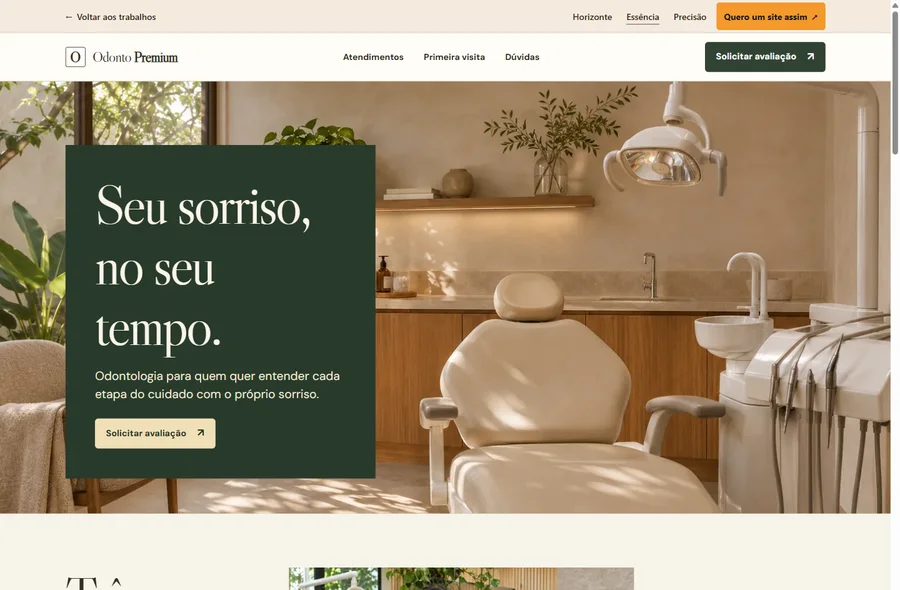
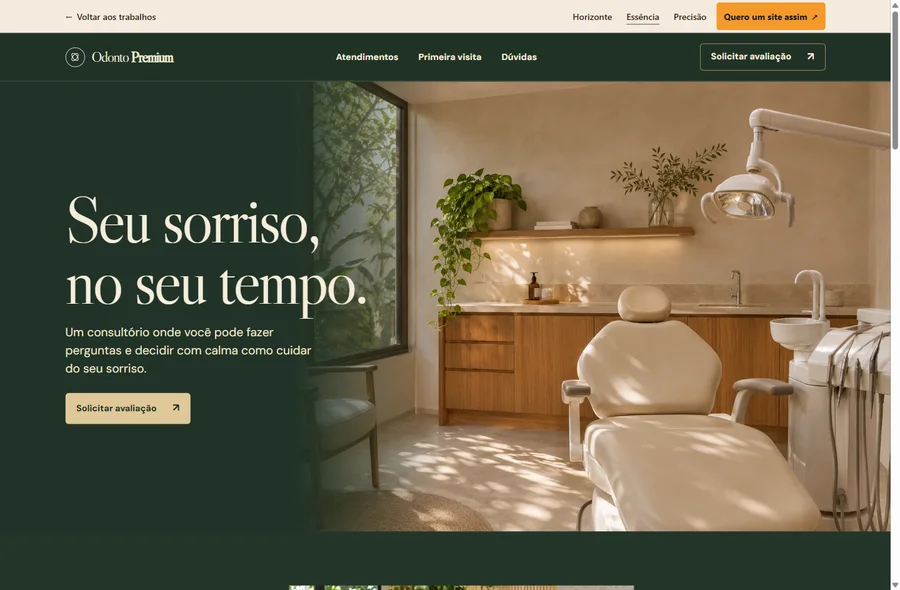
Redesenha a direção visual das três versões da Odonto Premium

diff --git a/app/exemplos/sites/dentista/dentista.css b/app/exemplos/sites/dentista/dentista.css
@@ -333,3 +333,170 @@ figure { margin:0;overflow:hidden }
  .precision-row figure img { object-position:center }
  .precision-row p { font-size:.9rem;line-height:1.35 }
 }
+
+/* The clinical site identities begin below the shared portfolio navigation. */
+.clinic-mark { gap:.68rem;letter-spacing:-.055em }
+.clinic-name { white-space:nowrap }
+.clinic-monogram {
+ position:relative;width:1.95rem;height:1.95rem;margin:0;
+ border:1px solid currentColor;border-radius:50%;flex:none
+}
+.clinic-monogram::before,.clinic-monogram::after {
+ content:"";position:absolute;inset:26% 37%;border:1px solid currentColor;
+ border-radius:50%;transform:rotate(40deg)
+}
+.clinic-monogram::after { transform:rotate(-40deg) }
+.clinic-header nav a { font-size:.9rem }
+.clinic-header .clinic-button { min-height:43px }
+.clinic-button { gap:1.6rem;min-height:50px }
+.clinic-footer p { font-size:.87rem }
+.faq summary { display:flex;justify-content:space-between;align-items:center;gap:.6rem;list-style:none }
+.faq summary::-webkit-details-marker { display:none }
+.faq summary::after { content:"+";font-size:1.2rem;line-height:1 }
+.faq details[open] summary::after { content:"−" }
+
+.horizonte {
+ --ink:#173d32;--muted:#38564a;--paper:#fbfaf4;--line:#b4c1ad;--action:#194e3b;
+ --panel:#fcfbf4;
+}
+.horizonte .clinic-header { background:#f4f6e9 }
+.horizonte .hero {
+ display:grid;grid-template-columns:minmax(0,.95fr) minmax(0,1.05fr);
+ width:100%;padding:0;gap:0;background:#eaf0db;align-items:stretch
+}
+.horizonte .hero-copy {
+ padding:clamp(2.5rem,7.1vw,7rem) clamp(1.25rem,3.35vw,3.75rem) clamp(2.5rem,6vw,6rem) max(2.2rem,calc((100vw - 75rem)/2));
+ align-self:center
+}
+.horizonte .hero h1 {
+ max-width:10ch;font-size:clamp(3.15rem,6.25vw,6rem);line-height:.985;
+ letter-spacing:-.065em;font-weight:780;text-wrap:initial
+}
+.horizonte .hero-copy > p { max-width:32ch;font-size:clamp(1rem,1.52vw,1.22rem);line-height:1.48 }
+.horizonte .hero-photo {
+ height:100%;min-height:33rem;aspect-ratio:auto;border-radius:0;
+}
+.horizonte .hero-photo img { width:100%;height:100%;object-fit:cover;object-position:65% 48% }
+.horizonte .hero-choices {
+ margin-top:1.4rem;gap:.4rem .8rem;padding:0;
+}
+.horizonte .hero-choices a {
+ min-height:44px;padding:.2rem 0;border:0;border-bottom:1px solid #779381;border-radius:0;
+}
+.horizonte .hero-choices a:hover { background:transparent;border-bottom-color:currentColor }
+.horizonte .hero-copy > .clinic-button { margin-top:1.2rem }
+.horizonte .horizon-treatments { padding-block:clamp(2.3rem,6vw,5.6rem) }
+.horizon-treatments h2 { letter-spacing:-.055em }
+.horizonte .horizon-index-photo { border-radius:0;aspect-ratio:1.53;min-height:0 }
+.horizonte .service-list h3 { font-size:clamp(1.09rem,1.6vw,1.45rem) }
+.horizonte .visit-horizon { background:#eaf0db }
+.horizonte .scene-caption { padding-block:.75rem }
+.horizonte .horizon-scene { background:#194e3b }
+.horizonte .scene-caption p { color:#f0f4e9 }
+.horizonte .request-wrap { background:#204738 }
+
+.essencia {
+ --ink:#f5eddb;--muted:#d2c9b1;--paper:#243529;--line:#637062;--action:#dfc798;--panel:#2a3d2e;
+ --on-action:#1c2d21;
+ color-scheme:dark;
+}
+.essencia .clinic-header { background:#213226;border-color:#697262 }
+.essencia .clinic-monogram { border-radius:50% }
+.essencia .clinic-header .clinic-button { background:transparent;color:var(--ink);border-color:#ad9f79 }
+.essencia .hero-wide { min-height:clamp(33rem,50vw,49rem);background:#213327;align-items:center }
+.essencia .hero-wide .hero-photo {
+ left:33%;background:#776249;
+ mask-image:linear-gradient(90deg,transparent 0%,#000 25%,#000 100%);
+}
+.essencia .hero-wide .hero-photo img { object-position:64% 53% }
+.essencia .hero-overlay { margin-block:clamp(3rem,6vw,7rem);position:relative }
+.essencia .hero-copy { width:min(42%,32rem);padding:0;background:none }
+.essencia .hero-copy h1 { max-width:9ch;color:#f6edda;font-size:clamp(3.85rem,7.2vw,7rem);line-height:.95;text-wrap:initial }
+.essencia .hero-copy p { max-width:32ch;color:#f1e5cb }
+.essence-treatments { padding-block:clamp(2.6rem,6vw,5.8rem);border-bottom:1px solid var(--line) }
+.essence-section-title h2 { max-width:8ch }
+.essence-story a,.essence-story a:hover { color:#f0d7a9 }
+.essence-spread { gap:1.6rem clamp(.9rem,2.4vw,2rem) }
+.essence-story figure { aspect-ratio:1.5 }
+.essence-story:nth-child(3) { margin-top:clamp(.4rem,2.4vw,2.5rem) }
+.essence-scene { background:#ded4be;color:#27382c }
+.essence-scene p { color:#384538 }
+.essencia .visit li::before { color:#ead2a4 }
+.essencia .faq { border-top:1px solid var(--line) }
+.essencia .request-wrap { background:#1d2e22 }
+.essencia .request { background:#f1eada;color:#26372b;border-color:#ebdcc1;color-scheme:light }
+.essencia .request p { color:#465044 }
+.essencia .request select { color:#283b2d }
+.essencia .sample-button,.essencia .result-actions button { background:#e6ddc8;color:#26372b;border-color:#9b987e }
+.essencia .request-result { background:#eee4ce;border-color:#a29a86 }
+.essencia .request-summary div { border-color:#aba38d }
+
+.precisao {
+ --ink:#13264e;--muted:#374b6e;--paper:#f6f8fd;--line:#aebcd9;--action:#2048bb;--panel:#fff;
+}
+.precisao .clinic-header { background:#fff }
+.precisao .clinic-monogram { border-radius:.24rem }
+.precisao .hero-fast { padding:0;background:#1944b1;color:#fff }
+.precisao .hero-fast-grid { display:grid;grid-template-columns:minmax(0,1fr);gap:0;width:100%;margin:0 }
+.precisao .hero-copy {
+ text-align:center;width:min(100% - 2rem,76rem);margin-inline:auto;
+ padding-block:clamp(1.7rem,4.9vw,4.6rem) clamp(1.5rem,3vw,2.9rem);
+}
+.precisao .hero-fast h1 { margin-inline:auto;max-width:none;font-size:clamp(2.5rem,6.45vw,6rem);letter-spacing:-.064em }
+.precisao .hero-copy p { margin:.9rem auto 0;color:#f1f5ff;font-size:clamp(1rem,1.6vw,1.18rem);max-width:42ch }
+.hero-fast-media { height:clamp(12rem,27vw,26rem);overflow:hidden;background:#526e9d }
+.hero-fast-media img { width:100%;height:100%;object-fit:cover;object-position:50% 57% }
+.precisao .hero-fast .request {
+ width:min(100% - 2rem,70rem);position:relative;z-index:1;
+ margin:-3.3rem auto 0;padding:clamp(1rem,2.2vw,2rem);
+ border:0;border-radius:.32rem;box-shadow:0 1rem 1.6rem #13264e30;
+}
+.precisao .hero-fast .request h2 { font-size:clamp(1.6rem,2.45vw,2.4rem) }
+.precisao .hero-fast .request-form { display:grid;grid-template-columns:minmax(0,1fr) auto;align-items:end;gap:.65rem 1rem }
+.precisao .hero-fast .form-fields { grid-template-columns:repeat(2,minmax(0,1fr));gap:.75rem }
+.precisao .hero-fast .request-form > button { margin:0 }
+.precisao .hero-fast .request-form > p { grid-column:1/-1;margin-top:0 }
+.precisao .hero-fast { padding-bottom:clamp(1.5rem,3.3vw,3.3rem) }
+.precision-treatments h2 { margin-bottom:1.25rem;letter-spacing:-.055em }
+.precisao .precision-row figure { height:clamp(9rem,15vw,14rem) }
+.precisao .precision-row h3 { letter-spacing:-.055em }
+.precisao .visit-precision { background:#162e72 }
+.precisao .visit-precision li { border-color:#7690d0 }
+.precisao .precision-scene figure { border-radius:.35rem }
+
+.comparison { background:#f2e9dd }
+.version-card { border-radius:.2rem;background:#fffbf4;color:#25221e }
+.version-card p { color:#5f4d40 }
+.version-card a > div { padding:clamp(.95rem,1.65vw,1.4rem) }
+.version-card img { aspect-ratio:1.53 }
+.version-card.essencia h2 { font-family:Georgia,serif;font-weight:400 }
+.version-card.horizonte h2 { color:#194e3b }
+.version-card.precisao h2 { color:#173f9a }
+
+@media(max-width:760px) {
+ .clinic-mark { gap:.48rem }
+ .clinic-monogram { width:1.75rem;height:1.75rem }
+ .horizonte .hero { grid-template-columns:1fr }
+ .horizonte .hero-copy { padding:2.1rem 1rem 1.6rem }
+ .horizonte .hero h1 { font-size:clamp(2.7rem,10.5vw,4.8rem) }
+ .horizonte .hero-photo { height:clamp(14rem,65vw,25rem);min-height:0 }
+ .horizonte .hero-choices { gap:0 .9rem;margin-top:.85rem }
+ .horizonte .horizon-index-photo { height:auto }
+ .essencia .hero-wide { min-height:0;display:flex;flex-direction:column;background:#213327 }
+ .essencia .hero-overlay { margin:0 auto;width:calc(100% - 2rem) }
+ .essencia .hero-copy { width:100%;padding:1.85rem 0 1.45rem }
+ .essencia .hero-copy h1 { max-width:12ch;font-size:clamp(3rem,11.8vw,5rem) }
+ .essencia .hero-wide .hero-photo { width:100%;height:clamp(12rem,55vw,25rem);mask-image:none }
+ .essencia .hero-wide .hero-photo img { object-position:67% 58% }
+ .essence-story:nth-child(3) { margin-top:0 }
+ .precisao .hero-fast { padding-bottom:0 }
+ .precisao .hero-fast .request {
+  order:1;margin:0 auto 1.25rem;padding:1rem;border-radius:.28rem;box-shadow:none
+ }
+ .precisao .hero-fast-media { order:2;height:clamp(10rem,45vw,19rem) }
+ .precisao .hero-fast h1 { max-width:11ch;font-size:clamp(2.67rem,10.3vw,4.5rem) }
+ .precisao .hero-copy { padding-block:1.7rem 1.4rem }
+ .precisao .hero-fast .request-form,.precisao .hero-fast .form-fields { grid-template-columns:1fr }
+ .precisao .hero-fast .request-form > button { justify-self:start }
+ .precisao .precision-row figure { min-height:8rem;height:100% }
+}

diff --git a/app/exemplos/sites/dentista/precisao.html b/app/exemplos/sites/dentista/precisao.html
@@ -28,7 +28,7 @@
  </div>
  <header class="clinic-header">
   <div class="section-shell clinic-header-inner">
-   <a class="clinic-mark" href="#conteudo" aria-label="Odonto Premium, início"><span class="clinic-monogram" aria-hidden="true">O</span>Odonto <strong>Premium</strong></a>
+   <a class="clinic-mark" href="#conteudo" aria-label="Odonto Premium, início"><span class="clinic-monogram" aria-hidden="true"></span><span class="clinic-name">Odonto <strong>Premium</strong></span></a>
    <button class="clinic-menu" type="button" aria-expanded="false" aria-controls="clinic-navigation" hidden>Menu</button>
    <nav id="clinic-navigation" aria-label="Navegação da clínica">
     <a href="#atendimentos">Atendimentos</a>
@@ -40,12 +40,15 @@
   </div>
  </header>
  <main id="conteudo">
-   <section class="hero hero-fast"><div class="section-shell hero-fast-grid"><div class="hero-copy">
-       <h1>Sua próxima consulta começa aqui.</h1>
-       <p>Primeira avaliação, consulta de rotina ou alinhadores. Escolha o motivo da visita para preparar o pedido.</p>
+   <section class="hero hero-fast"><div class="hero-fast-grid"><div class="hero-copy">
+       <h1>Escolha seu atendimento.</h1>
+       <p>Primeira avaliação, consulta de rotina ou alinhadores.</p>
 
 
-      </div><section id="avaliacao" class="request" aria-labelledby="request-title">
+      </div>
+     <div class="hero-fast-media"><img src="consultorio-720.webp" srcset="consultorio-720.webp 720w, consultorio-1440.webp 1440w"
+       sizes="100vw" alt="Cadeira de atendimento e equipamentos na clínica Odonto Premium" decoding="async" fetchpriority="high"></div>
+     <section id="avaliacao" class="request" aria-labelledby="request-title">
     <div class="request-heading"><h2 id="request-title">Solicitar avaliação</h2>
      <button class="sample-button" type="button" data-fill-example hidden>Usar exemplo</button></div>
     <p>Escolha o atendimento e o melhor período para retorno.</p>
@@ -90,7 +93,7 @@
     </div>
    </section></div></section>
      <section class="treatments precision-treatments" id="atendimentos" aria-labelledby="treatments-title">
-     <div class="section-shell"><h2 id="treatments-title">Qual é o motivo da visita?</h2><ul class="precision-rows"><li class="precision-row"><h3>Primeira avaliação</h3><div><p>Conte o que motivou a visita e converse sobre os próximos passos.</p><a href="#avaliacao" data-service-choice="primeira" aria-label="Selecionar primeira avaliação">Selecionar <span aria-hidden="true">↗</span></a></div><figure class=""><img src="avaliacao-720.webp" srcset="avaliacao-720.webp 720w, avaliacao-1440.webp 1440w" sizes="(max-width: 760px) 100vw, 50vw" alt="Dentista e paciente conversam com apoio de um modelo odontológico" decoding="async" loading="lazy"></figure></li>
+     <div class="section-shell"><h2 id="treatments-title">Conheça os atendimentos.</h2><ul class="precision-rows"><li class="precision-row"><h3>Primeira avaliação</h3><div><p>Conte o que motivou a visita e converse sobre os próximos passos.</p><a href="#avaliacao" data-service-choice="primeira" aria-label="Selecionar primeira avaliação">Selecionar <span aria-hidden="true">↗</span></a></div><figure class=""><img src="avaliacao-720.webp" srcset="avaliacao-720.webp 720w, avaliacao-1440.webp 1440w" sizes="(max-width: 760px) 100vw, 50vw" alt="Dentista e paciente conversam com apoio de um modelo odontológico" decoding="async" loading="lazy"></figure></li>
 <li class="precision-row"><h3>Consulta de rotina</h3><div><p>Reserve um momento para revisar seus cuidados e esclarecer dúvidas.</p><a href="#avaliacao" data-service-choice="rotina" aria-label="Selecionar consulta de rotina">Selecionar <span aria-hidden="true">↗</span></a></div><figure class=""><img src="rotina-720.webp" srcset="rotina-720.webp 720w, rotina-1440.webp 1440w" sizes="(max-width: 760px) 100vw, 50vw" alt="Bandeja preparada para a consulta odontológica" decoding="async" loading="lazy"></figure></li>
 <li class="precision-row"><h3>Alinhadores</h3><div><p>Leve suas dúvidas sobre alinhamento e entenda o que seria avaliado.</p><a href="#avaliacao" data-service-choice="alinhadores" aria-label="Selecionar alinhadores">Selecionar <span aria-hidden="true">↗</span></a></div><figure class=""><img src="alinhadores-720.webp" srcset="alinhadores-720.webp 720w, alinhadores-1440.webp 1440w" sizes="(max-width: 760px) 100vw, 50vw" alt="Alinhador transparente e modelo odontológico" decoding="async" loading="lazy"></figure></li></ul></div>
    </section>
@@ -105,7 +108,7 @@
     </div>
    </section>
    <section class="clinic-scene precision-scene section-shell" aria-labelledby="space-title">
-    <figure class=""><img src="consultorio-720.webp" srcset="consultorio-720.webp 720w, consultorio-1440.webp 1440w" sizes="(max-width: 760px) 100vw, 50vw" alt="Cadeira de atendimento e equipamentos no consultório" decoding="async" loading="lazy"></figure>
+    <figure class=""><img src="sala-720.webp" srcset="sala-720.webp 720w, sala-1440.webp 1440w" sizes="(max-width: 760px) 100vw, 50vw" alt="Consultório iluminado, com cadeira de atendimento e madeira clara" decoding="async" loading="lazy"></figure>
     <div><h2 id="space-title">O consultório</h2><p>Um espaço para a conversa inicial, a avaliação e a orientação sobre o que vem depois.</p></div>
    </section>
    <section class="faq section-shell" id="duvidas" aria-labelledby="faq-title">

diff --git a/app/exemplos/sites/dentista/essencia.html b/app/exemplos/sites/dentista/essencia.html
@@ -29,7 +29,7 @@
  </div>
  <header class="clinic-header">
   <div class="section-shell clinic-header-inner">
-   <a class="clinic-mark" href="#conteudo" aria-label="Odonto Premium, início"><span class="clinic-monogram" aria-hidden="true">O</span>Odonto <strong>Premium</strong></a>
+   <a class="clinic-mark" href="#conteudo" aria-label="Odonto Premium, início"><span class="clinic-monogram" aria-hidden="true"></span><span class="clinic-name">Odonto <strong>Premium</strong></span></a>
    <button class="clinic-menu" type="button" aria-expanded="false" aria-controls="clinic-navigation" hidden>Menu</button>
    <nav id="clinic-navigation" aria-label="Navegação da clínica">
     <a href="#atendimentos">Atendimentos</a>
@@ -43,20 +43,20 @@
  <main id="conteudo">
    <section class="hero hero-wide"><div class="section-shell hero-overlay"><div class="hero-copy">
        <h1>Seu sorriso, no seu tempo.</h1>
-       <p>Odontologia para quem quer entender cada etapa do cuidado com o próprio sorriso.</p>
+       <p>Um consultório onde você pode fazer perguntas e decidir com calma como cuidar do seu sorriso.</p>
 
        <a class="clinic-button" href="#avaliacao">Solicitar avaliação <span aria-hidden="true">↗</span></a>
       </div></div><div class="hero-photo"><img src="sala-720.webp" srcset="sala-720.webp 720w, sala-1440.webp 1440w"
        sizes="100vw" alt="Consultório odontológico com madeira, plantas e luz natural" fetchpriority="high" decoding="async"></div></section>
      <section class="treatments section-shell essence-treatments" id="atendimentos" aria-labelledby="treatments-title">
-    <div class="essence-section-title"><h2 id="treatments-title">Três formas de começar.</h2><p>Da primeira conversa à revisão de rotina, cada visita tem um propósito.</p></div>
+    <div class="essence-section-title"><h2 id="treatments-title">Os atendimentos.</h2><p>Escolha o motivo da sua visita.</p></div>
     <div class="essence-spread"><article class="essence-story"><figure class=""><img src="avaliacao-720.webp" srcset="avaliacao-720.webp 720w, avaliacao-1440.webp 1440w" sizes="(max-width: 760px) 100vw, 50vw" alt="Dentista e paciente conversam com apoio de um modelo odontológico" decoding="async" loading="lazy"></figure><div><h3>Primeira avaliação</h3><p>Conte o que motivou a visita e converse sobre os próximos passos.</p><a href="#avaliacao" data-service-choice="primeira" aria-label="Selecionar primeira avaliação">Ver na avaliação <span aria-hidden="true">↗</span></a></div></article>
 <article class="essence-story"><figure class=""><img src="rotina-720.webp" srcset="rotina-720.webp 720w, rotina-1440.webp 1440w" sizes="(max-width: 760px) 100vw, 50vw" alt="Bandeja preparada para a consulta odontológica" decoding="async" loading="lazy"></figure><div><h3>Consulta de rotina</h3><p>Reserve um momento para revisar seus cuidados e esclarecer dúvidas.</p><a href="#avaliacao" data-service-choice="rotina" aria-label="Selecionar consulta de rotina">Ver na avaliação <span aria-hidden="true">↗</span></a></div></article>
 <article class="essence-story"><figure class=""><img src="alinhadores-720.webp" srcset="alinhadores-720.webp 720w, alinhadores-1440.webp 1440w" sizes="(max-width: 760px) 100vw, 50vw" alt="Alinhador transparente e modelo odontológico" decoding="async" loading="lazy"></figure><div><h3>Alinhadores</h3><p>Leve suas dúvidas sobre alinhamento e entenda o que seria avaliado.</p><a href="#avaliacao" data-service-choice="alinhadores" aria-label="Selecionar alinhadores">Ver na avaliação <span aria-hidden="true">↗</span></a></div></article></div>
    </section>
    <section class="clinic-scene essence-scene" aria-labelledby="space-title">
     <div class="section-shell scene-inner">
-     <div><h2 id="space-title">Um espaço para ir com calma.</h2><p>Na primeira visita, o consultório também é lugar para fazer perguntas e entender suas opções.</p></div>
+     <div><h2 id="space-title">Por dentro da Odonto Premium.</h2><p>Na primeira visita, o consultório também é lugar para fazer perguntas e entender suas opções.</p></div>
      <figure class=""><img src="recepcao-720.webp" srcset="recepcao-720.webp 720w, recepcao-1440.webp 1440w" sizes="(max-width: 760px) 100vw, 50vw" alt="Área de espera com madeira, poltronas e uma janela para o jardim" decoding="async" loading="lazy"></figure>
     </div>
    </section>

diff --git a/app/exemplos/sites/dentista/index.html b/app/exemplos/sites/dentista/index.html
@@ -28,7 +28,7 @@
  </div>
  <header class="clinic-header">
   <div class="section-shell clinic-header-inner">
-   <a class="clinic-mark" href="#conteudo" aria-label="Odonto Premium, início"><span class="clinic-monogram" aria-hidden="true">O</span>Odonto <strong>Premium</strong></a>
+   <a class="clinic-mark" href="#conteudo" aria-label="Odonto Premium, início"><span class="clinic-monogram" aria-hidden="true"></span><span class="clinic-name">Odonto <strong>Premium</strong></span></a>
    <button class="clinic-menu" type="button" aria-expanded="false" aria-controls="clinic-navigation" hidden>Menu</button>
    <nav id="clinic-navigation" aria-label="Navegação da clínica">
     <a href="#atendimentos">Atendimentos</a>
@@ -41,8 +41,8 @@
  </header>
  <main id="conteudo">
    <section class="hero section-shell"><div class="hero-copy">
-       <h1>Um cuidado que começa pela escuta.</h1>
-       <p>Da primeira avaliação às consultas de rotina, encontre um caminho de cuidado para o seu sorriso.</p>
+       <h1>Odontologia com tempo para ouvir.</h1>
+       <p>Uma primeira conversa para entender o que você precisa e como a Odonto Premium pode ajudar.</p>
        <div class="hero-choices" role="group" aria-label="Atalhos de atendimento"><a href="#avaliacao" data-service-choice="primeira">Primeira avaliação</a>
          <a href="#avaliacao" data-service-choice="rotina">Consulta de rotina</a>
          <a href="#avaliacao" data-service-choice="alinhadores">Alinhadores</a></div>
@@ -50,7 +50,7 @@
       </div><div class="hero-photo"><img src="conversa-720.webp" srcset="conversa-720.webp 720w, conversa-1440.webp 1440w"
        sizes="(max-width: 760px) 100vw, 58vw" alt="Dentista conversando com uma paciente no consultório" fetchpriority="high" decoding="async"></div></section>
      <section class="treatments section-shell horizon-treatments" id="atendimentos" aria-labelledby="treatments-title">
-    <h2 id="treatments-title">Encontre seu ponto de partida.</h2>
+    <h2 id="treatments-title">O que traz você até aqui?</h2>
     <div class="horizon-index">
      <figure class="horizon-index-photo"><img src="avaliacao-720.webp" srcset="avaliacao-720.webp 720w, avaliacao-1440.webp 1440w" sizes="(max-width: 760px) 100vw, 50vw" alt="Dentista e paciente conversam com apoio de um modelo odontológico" decoding="async" loading="lazy"></figure>
      <ul class="service-list"><li><div><h3>Primeira avaliação</h3><p>Conte o que motivou a visita e converse sobre os próximos passos.</p></div><a href="#avaliacao" data-service-choice="primeira" aria-label="Selecionar primeira avaliação">Escolher <span aria-hidden="true">↗</span></a></li>
@@ -70,7 +70,7 @@
    </section>
    <section class="clinic-scene horizon-scene" aria-label="Recepção da Odonto Premium">
     <img src="recepcao-720.webp" srcset="recepcao-720.webp 720w, recepcao-1440.webp 1440w" sizes="100vw" alt="Recepção da clínica com poltronas verdes e luz natural" decoding="async" loading="lazy">
-    <div class="section-shell scene-caption"><p>Luz natural, um lugar para sentar e tempo para conversar antes da consulta.</p></div>
+    <div class="section-shell scene-caption"><p>Recepção da Odonto Premium</p></div>
    </section>
    <section class="faq section-shell" id="duvidas" aria-labelledby="faq-title">
    <h2 id="faq-title">Dúvidas antes de marcar</h2>
